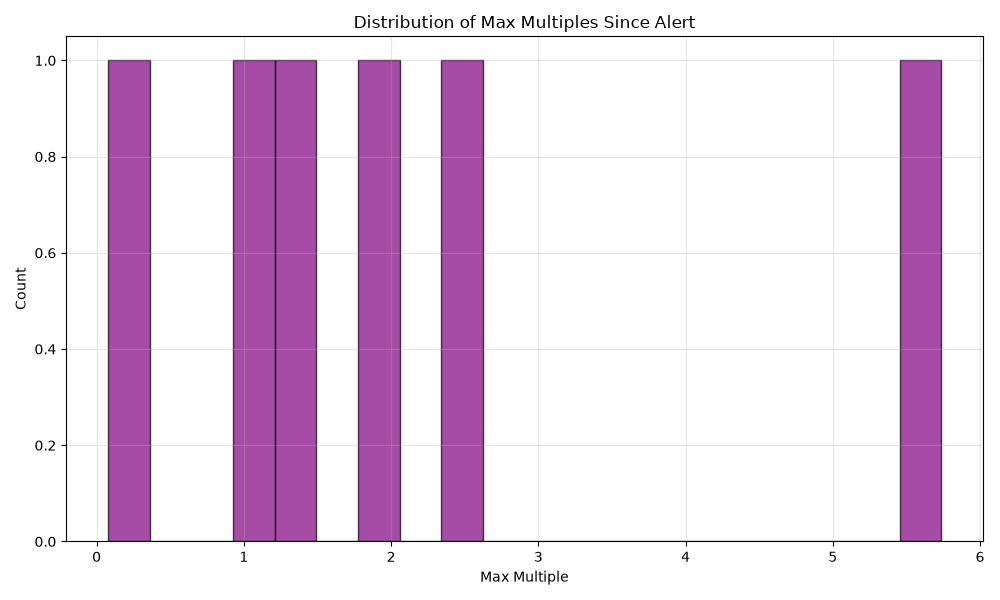
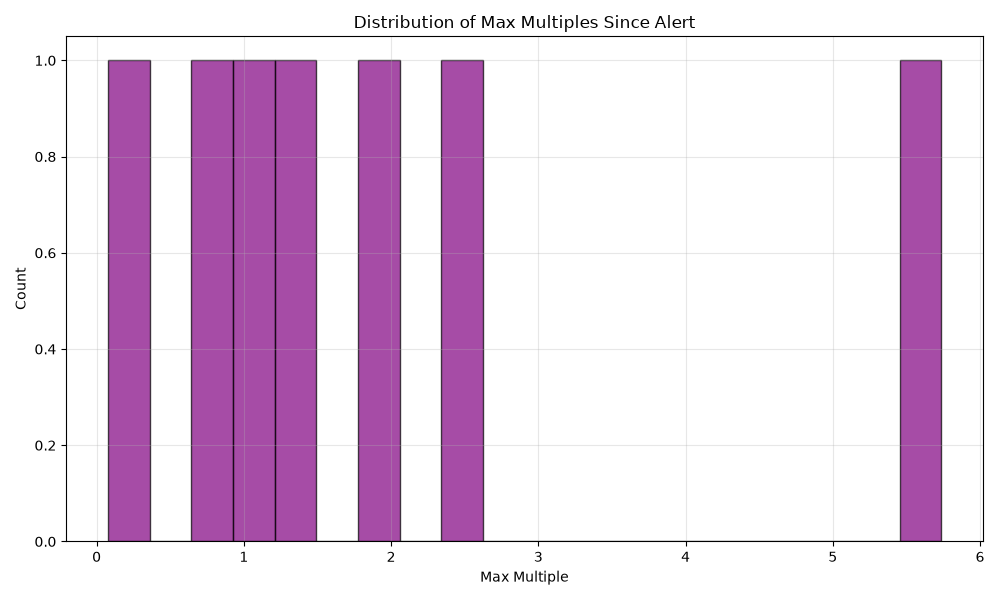
Update paper-trading dashboard [skip ci]

Changed region(s): [[0.186, 0.09, 0.248, 0.9]]

diff --git a/dashboard/index.html b/dashboard/index.html
@@ -483,7 +483,7 @@
             </div>
             <div class="header-meta">
                 <span class="badge badge-warning">📝 PAPER TRADING — no real money</span>
-                <span class="badge badge-info">Last updated: 2026-10-22 14:54 CEST</span>
+                <span class="badge badge-info">Last updated: 2026-10-22 16:03 CEST</span>
             </div>
             <p style="margin-top: 16px; color: var(--text-muted); font-size: 13px;">
                 Built with ❤ by <a href="https://x.com/francescoswiss" target="_blank" rel="noopener" style="color: var(--text-primary); text-decoration: none; transition: opacity 0.2s;">Francesco Andreoli</a>
@@ -494,17 +494,17 @@
         <div class="kpi-grid">
             <div class="kpi-card">
                 <div class="kpi-label">Total Calls</div>
-                <div class="kpi-value neutral">6</div>
+                <div class="kpi-value neutral">7</div>
             </div>
             <div class="kpi-card">
                 <div class="kpi-label">Win Rate</div>
-                <div class="kpi-value negative">33.3%</div>
+                <div class="kpi-value negative">28.6%</div>
                 <div class="kpi-sub">Strategy A</div>
             </div>
             <div class="kpi-card">
                 <div class="kpi-label">Total P&L</div>
-                <div class="kpi-value negative">−$2.90</div>
-                <div class="kpi-sub">ROI: −$4.84%</div>
+                <div class="kpi-value negative">−$4.44</div>
+                <div class="kpi-sub">ROI: −$6.34%</div>
             </div>
             <div class="kpi-card">
                 <div class="kpi-label">Best Call</div>
@@ -513,7 +513,7 @@
             </div>
             <div class="kpi-card">
                 <div class="kpi-label">Active</div>
-                <div class="kpi-value neutral">0</div>
+                <div class="kpi-value neutral">1</div>
                 <div class="kpi-sub">Open positions</div>
             </div>
         </div>
@@ -528,40 +528,40 @@
             <td>
                 A: Sell ALL at 2x <span class="active-badge">Active Rule</span>
                 <div class="strategy-bar-container">
-                    <div class="strategy-bar" style="width: 5.488450765226151%; background: #ef4444;"></div>
+                    <div class="strategy-bar" style="width: 8.180606549366036%; background: #ef4444;"></div>
                 </div>
             </td>
-            <td class="number pnl-negative">−$2.90</td>
+            <td class="number pnl-negative">−$4.44</td>
         </tr>
         
         <tr class="">
             <td>
                 E: 2x + moonbag <span class="testing-badge">Testing</span>
                 <div class="strategy-bar-container">
-                    <div class="strategy-bar" style="width: 0.7560188015666717%; background: #ef4444;"></div>
+                    <div class="strategy-bar" style="width: 3.5665512822916376%; background: #ef4444;"></div>
                 </div>
             </td>
-            <td class="number pnl-negative">−$0.40</td>
+            <td class="number pnl-negative">−$1.94</td>
         </tr>
         
         <tr class="">
             <td>
                 B: Sell ALL at +50% 
                 <div class="strategy-bar-container">
-                    <div class="strategy-bar" style="width: 5.488450765226145%; background: #ef4444;"></div>
+                    <div class="strategy-bar" style="width: 8.18060654936603%; background: #ef4444;"></div>
                 </div>
             </td>
-            <td class="number pnl-negative">−$2.90</td>
+            <td class="number pnl-negative">−$4.44</td>
         </tr>
         
         <tr class="">
             <td>
                 C: Sell HALF at 2x 
                 <div class="strategy-bar-container">
-                    <div class="strategy-bar" style="width: 39.9649865326383%; background: #ef4444;"></div>
+                    <div class="strategy-bar" style="width: 41.75975097305442%; background: #ef4444;"></div>
                 </div>
             </td>
-            <td class="number pnl-negative">−$21.15</td>
+            <td class="number pnl-negative">−$22.66</td>
         </tr>
         
         <tr class="">
@@ -571,7 +571,7 @@
                     <div class="strategy-bar" style="width: 100.0%; background: #ef4444;"></div>
                 </div>
             </td>
-            <td class="number pnl-negative">−$52.91</td>
+            <td class="number pnl-negative">−$54.27</td>
         </tr>
         
                 </tbody>
@@ -661,7 +661,7 @@
             </td>
             <td>2026-10-20 14:45 CEST</td>
             <td class="number">$24,140</td>
-            <td class="number">$3,339</td>
+            <td class="number">$3,429</td>
             <td class="number">5.74x</td>
             <td><span class="status-pill status-hit-target">Hit 2x</span></td>
             <td class="number pnl-positive">+$9.03</td>
@@ -739,7 +739,7 @@
             </td>
             <td>2026-10-22 03:26 CEST</td>
             <td class="number">$19,886</td>
-            <td class="number">$3,790</td>
+            <td class="number">$3,578</td>
             <td class="number">1.99x</td>
             <td><span class="status-pill status-stopped">Stopped −50%</span></td>
             <td class="number pnl-negative">−$5.24</td>
@@ -769,6 +769,32 @@
             <td class="number">1.49x</td>
             <td><span class="status-pill status-stopped">Stopped −50%</span></td>
             <td class="number pnl-negative">−$5.24</td>
+        </tr>
+        
+        <tr>
+            <td>
+                <div class="token-cell">
+                    <strong>BlackCat</strong> 
+                    <div class="ca-container">
+                        <code class="ca-code" id="ca-4iXVATxs">4iXV...pump</code>
+                        <button class="copy-btn" onclick="copyCA('4iXVATxswkQ4NXd1rw88QwCS7ZVWriPy9428b8dspump', 'ca-4iXVATxs')" title="Copy full CA">
+                            <svg width="14" height="14" viewBox="0 0 24 24" fill="none" stroke="currentColor" stroke-width="2">
+                                <rect x="9" y="9" width="13" height="13" rx="2" ry="2"></rect>
+                                <path d="M5 15H4a2 2 0 0 1-2-2V4a2 2 0 0 1 2-2h9a2 2 0 0 1 2 2v1"></path>
+                            </svg>
+                        </button>
+                        <a href="https://dexscreener.com/solana/4iXVATxswkQ4NXd1rw88QwCS7ZVWriPy9428b8dspump" target="_blank" class="external-link" title="DexScreener">DEX</a>
+                        <a href="https://pump.fun/4iXVATxswkQ4NXd1rw88QwCS7ZVWriPy9428b8dspump" target="_blank" class="external-link" title="pump.fun">PF</a>
+                        <a href="https://gmgn.ai/sol/token/4iXVATxswkQ4NXd1rw88QwCS7ZVWriPy9428b8dspump" target="_blank" class="external-link" title="GMGN">GM</a>
+                    </div>
+                </div>
+            </td>
+            <td>2026-10-22 16:00 CEST</td>
+            <td class="number">$21,100</td>
+            <td class="number">$18,307</td>
+            <td class="number">0.87x</td>
+            <td><span class="status-pill status-active">Active</span></td>
+            <td class="number pnl-negative">−$1.54</td>
         </tr>
         
                     </tbody>
@@ -802,7 +828,7 @@
             <div class="kpi-card" style="margin-bottom: 20px;">
                 <div class="kpi-label">Filters Impact</div>
                 <div class="kpi-value positive">
-                    +$207.31
+                    +$213.91
                 </div>
                 <div class="kpi-sub">Saved • 49 calls</div>
             </div>
@@ -1097,14 +1123,14 @@
                             <td><strong>Arnaud</strong></td>
                             <td><code style="font-size: 11px;">bot 56% + dev-out</code></td>
                             <td class="number">0.74x</td>
-                            <td class="number pnl-negative">−$4.41</td>
+                            <td class="number pnl-negative">−$5.24</td>
                         </tr>
             
                         <tr>
                             <td><strong>Offline</strong></td>
                             <td><code style="font-size: 11px;">(c) dumped hard off peak (v1h $121k vs MC $5-7k</code></td>
                             <td class="number">1.10x</td>
-                            <td class="number pnl-negative">−$5.02</td>
+                            <td class="number pnl-negative">−$5.12</td>
                         </tr>
             
                         <tr>
@@ -1160,7 +1186,7 @@
                             <td><strong>haMSTR</strong></td>
                             <td><code style="font-size: 11px;">(d) no leader</code></td>
                             <td class="number">1.07x</td>
-                            <td class="number pnl-positive">+$0.43</td>
+                            <td class="number pnl-negative">−$5.24</td>
                         </tr>
             
                     </tbody>
@@ -1208,10 +1234,10 @@
             new Chart(cumulativeCtx, {
                 type: 'line',
                 data: {
-                    labels: ['Start', 'Call 1', 'Call 2', 'Call 3', 'Call 4', 'Call 5', 'Call 6'],
+                    labels: ['Start', 'Call 1', 'Call 2', 'Call 3', 'Call 4', 'Call 5', 'Call 6', 'Call 7'],
                     datasets: [{
                         label: 'Cumulative P&L',
-                        data: [0, -5.24199875, 3.790006250000002, 12.822011250000003, 7.580012500000003, 2.3380137500000036, -2.903984999999996],
+                        data: [0, -5.24199875, 3.790006250000002, 12.822011250000003, 7.580012500000003, 2.3380137500000036, -2.903984999999996, -4.439475753911801],
                         borderColor: chartColors.primary,
                         backgroundColor: chartColors.primary + '20',
                         fill: true,
@@ -1254,11 +1280,11 @@
             new Chart(perCallCtx, {
                 type: 'bar',
                 data: {
-                    labels: ['Call 1', 'Call 2', 'Call 3', 'Call 4', 'Call 5', 'Call 6'],
+                    labels: ['Call 1', 'Call 2', 'Call 3', 'Call 4', 'Call 5', 'Call 6', 'Call 7'],
                     datasets: [{
                         label: 'P&L',
-                        data: [-5.24199875, 9.032005000000002, 9.032005000000002, -5.24199875, -5.24199875, -5.24199875],
-                        backgroundColor: [-5.24199875, 9.032005000000002, 9.032005000000002, -5.24199875, -5.24199875, -5.24199875].map(v => v >= 0 ? chartColors.success : chartColors.danger),
+                        data: [-5.24199875, 9.032005000000002, 9.032005000000002, -5.24199875, -5.24199875, -5.24199875, -1.5354907539118052],
+                        backgroundColor: [-5.24199875, 9.032005000000002, 9.032005000000002, -5.24199875, -5.24199875, -5.24199875, -1.5354907539118052].map(v => v >= 0 ? chartColors.success : chartColors.danger),
                         borderRadius: 6,
                         borderSkipped: false
                     }]

diff --git a/README.md b/README.md
@@ -6,9 +6,9 @@
 
 This dashboard tracks theoretical P&L from Solana memecoin alerts. **No actual trades are executed.**
 
-**Last Updated:** 2026-10-22 14:54 CEST
+**Last Updated:** 2026-10-22 16:03 CEST
 
-**Tracked:** 6 real alerts + 49 missed (filtered out)
+**Tracked:** 7 real alerts + 49 missed (filtered out)
 
 ---
 
@@ -20,17 +20,17 @@ All strategies use:
 - **-50% stop-loss** (where applicable)
 - **Conservative ordering**: If both stop and target hit, assume stop hit first
 
-**🏆 Current Best Performer: E: 2x + moonbag** (Total P&L: $-0.40)
+**🏆 Current Best Performer: E: 2x + moonbag** (Total P&L: $-1.94)
 
 ### Overall Performance
 
 | Strategy | Description | Total Alerts | Total P&L | Win Rate | Avg P&L | Best Trade | Worst Trade |
 |----------|-------------|--------------|-----------|----------|---------|------------|-------------|
-| A: Sell ALL at 2x | Sell all at 2x, -50% stop | 6 | **$-2.90** | 33.3% | $-0.48 | $9.03 | $-5.24 |
-| B: Sell ALL at +50% | Sell all at 1.5x, -50% stop | 6 | **$-2.90** | 50.0% | $-0.48 | $4.27 | $-5.24 |
-| C: Sell HALF at 2x | Sell half at 2x, hold rest, -50% stop | 6 | **$-21.15** | 16.7% | $-3.52 | $0.23 | $-5.24 |
-| D: Hold 24h | Hold 24h then sell | 6 | **$-52.91** | 0.0% | $-8.82 | $-7.85 | $-9.84 |
-| ⭐ E: 2x + moonbag | Sell 85% at 2x, keep 15% moonbag (narr ≥4) | 6 | **$-0.40** | 33.3% | $-0.07 | $14.37 | $-5.24 |
+| A: Sell ALL at 2x | Sell all at 2x, -50% stop | 7 | **$-4.44** | 28.6% | $-0.63 | $9.03 | $-5.24 |
+| B: Sell ALL at +50% | Sell all at 1.5x, -50% stop | 7 | **$-4.44** | 42.9% | $-0.63 | $4.27 | $-5.24 |
+| C: Sell HALF at 2x | Sell half at 2x, hold rest, -50% stop | 7 | **$-22.66** | 14.3% | $-3.24 | $0.25 | $-5.24 |
+| D: Hold 24h | Hold 24h then sell | 7 | **$-54.27** | 0.0% | $-7.75 | $-1.29 | $-9.84 |
+| ⭐ E: 2x + moonbag | Sell 85% at 2x, keep 15% moonbag (narr ≥4) | 7 | **$-1.94** | 28.6% | $-0.28 | $14.37 | $-5.24 |
 
 ---
 
@@ -40,25 +40,25 @@ All strategies use:
 
 | Type | Count | Total P&L | Realized | Unrealized | Win Rate | Avg Max Multiple |
 |------|-------|-----------|----------|------------|----------|------------------|
-| new | 6 | $-2.90 | $-2.90 | $0.00 | 33.3% | 2.17x |
+| new | 7 | $-4.44 | $-2.90 | $-1.54 | 28.6% | 1.98x |
 
 ### Strategy B: Sell ALL at +50%
 
 | Type | Count | Total P&L | Realized | Unrealized | Win Rate | Avg Max Multiple |
 |------|-------|-----------|----------|------------|----------|------------------|
-| new | 6 | $-2.90 | $-2.90 | $0.00 | 50.0% | 2.17x |
+| new | 7 | $-4.44 | $-2.90 | $-1.54 | 42.9% | 1.98x |
 
 ### Strategy C: Sell HALF at 2x
 
 | Type | Count | Total P&L | Realized | Unrealized | Win Rate | Avg Max Multiple |
 |------|-------|-----------|----------|------------|----------|------------------|
-| new | 6 | $-21.15 | $-11.94 | $-9.21 | 16.7% | 2.17x |
+| new | 7 | $-22.66 | $-11.94 | $-10.73 | 14.3% | 1.98x |
 
 ### Strategy D: Hold 24h
 
 | Type | Count | Total P&L | Win Rate | Avg Max Multiple |
 |------|-------|-----------|----------|------------------|
-| new | 6 | $-52.91 | 0.0% | 2.17x |
+| new | 7 | $-54.27 | 0.0% | 1.98x |
 
 ---
 
